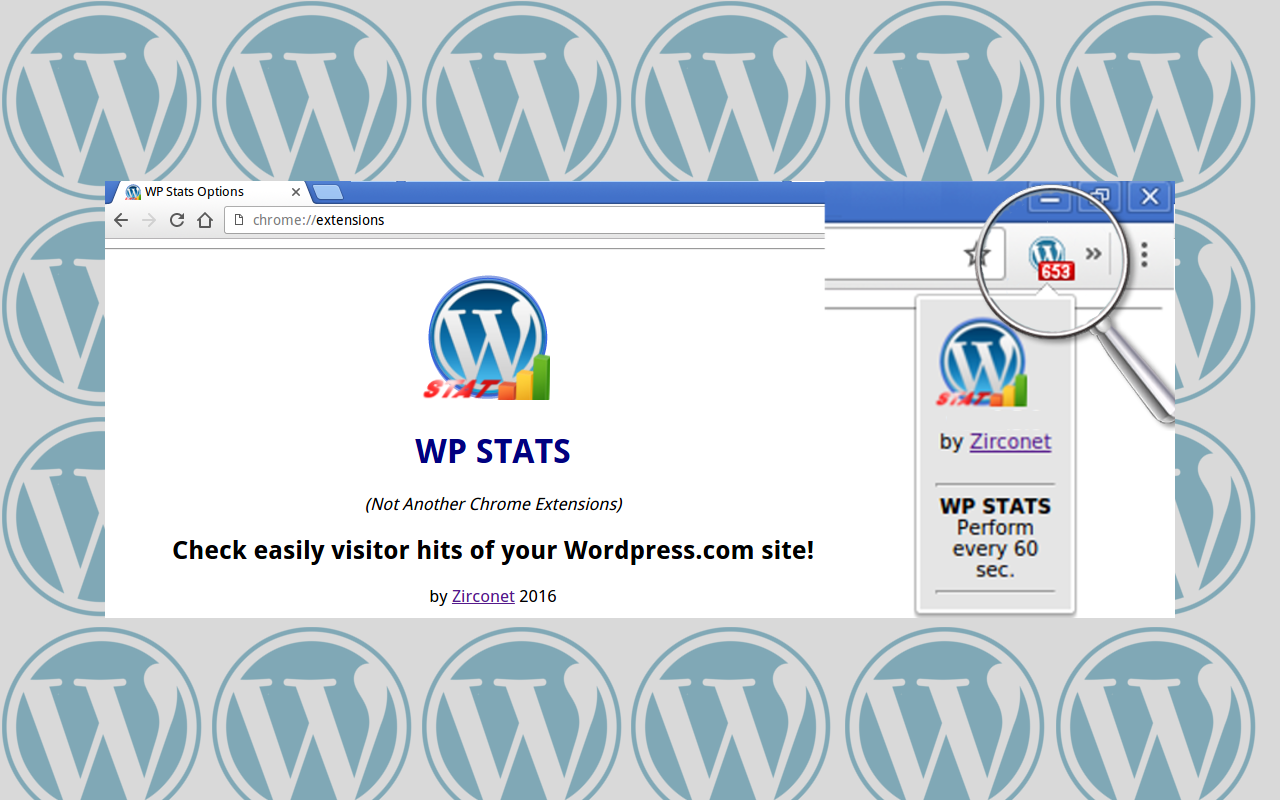
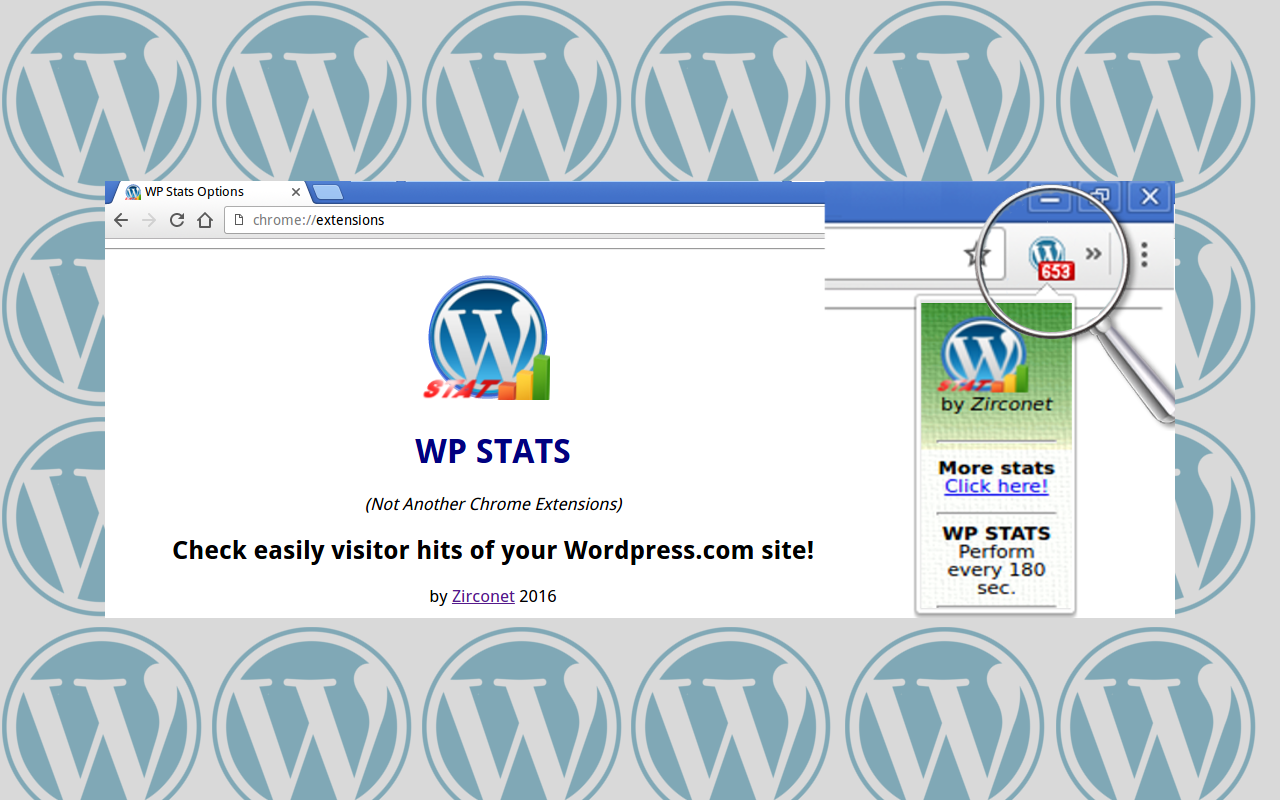
42458

Changed region(s): [[0.7188, 0.375, 0.8438, 0.7812]]

diff --git a/update.html b/update.html
@@ -8,23 +8,51 @@
 </head>
 <link rel='shortcut icon' type='image/x-icon' href='img/favicon.ico' />
 <body>
+<script src="js/update.js"></script>
 <hr />
 <h1 style="text-align: center;"><span style="color: #000080;"><a href="https://chrome.google.com/webstore/detail/wordpress-stats/jcdnefhhiabcloefaejmgdihedgdeplg" target="_blank"><img class="wp-image-21898 size-full alignnone" style="margin-right: 15px; border: 0px solid #000000;" src="img/updated.png"/></a></span></h1>
 <h1 style="text-align: center;"><span style="color: #000080;">WP STATS</span></h1>
 <div style="text-align: center;" id="version"></div>
 <p style="text-align: center;"><em>(Not Another Chrome Extensions)</em></p>
-<h2 style="text-align: center;">Check easily visitor hits of your Wordpress.com site!</h2>
+<h2 style="text-align: center;">Check easily who visit your Wordpress.com site!</h2>
 <p style="text-align: center;">by <a href="http://zirconet.wordpress.com" target="_blank">Zirconet</a> 2016</p>
 <hr />
 <hr />
-<p><strong>New version (1.5.8) changelog:</strong></p>
+<h2>Changelog:</h2>
+<p><strong>New version (1.5.9)</strong></p>
+<p>- implemented new MORE STATS POPUP showing current best posts and their visitors;</p>
+<p>- new background image.</p>
+<p style="text-align: center;"><img class="wp-image-21898 size-full alignnone" style="border: 0px solid #000000;" src="img/update/1-5-9/1.png"/><img class="wp-image-21898 size-full alignnone" style="margin-left: 100px; border: 0px solid #000000;" src="img/update/1-5-9/2.png"/></p>
+&nbsp
+<p><strong>ver. 1.5.8</strong></p>
 <p>- you can now set in Option total counter range (daily, weekly, monthly);</p>
 <p>- arranged new option.html page;</p>
 <p>- implemented detection Chrome extension first run / update;</p>
 <p>- created update.html page;</p>
 <p>- check delay now is every 180 sec.</p>
-
-<script src="js/update.js"></script>
+<p style="text-align: center;"><img class="wp-image-21898 size-full alignnone" style="border: 0px solid #000000;" src="img/update/1-5-8/1.png"/><img class="wp-image-21898 size-full alignnone" style="margin-left: 100px; border: 0px solid #000000;" src="img/update/1-5-8/2.png"/><img class="wp-image-21898 size-full alignnone" style="margin-left: 100px; border: 0px solid #000000;" src="img/update/1-5-8/3.png"/></p>
+&nbsp
+<p><strong>ver. 1.5.7</strong></p>
+<p>- now it is possible set in Option label color (red, blue, purple, green, yellow, orange).</p>
+<p style="text-align: center;"><img class="wp-image-21898 size-full alignnone" style="border: 0px solid #000000;" src="img/update/1-5-7/1.png"/><img class="wp-image-21898 size-full alignnone" style="margin-left: 100px; border: 0px solid #000000;" src="img/update/1-5-7/2.gif"/></p>
+&nbsp
+<p><strong>ver. 1.5.6</strong></p>
+<p>- changed label color in blue;</p>
+<p>- changed WP Stat url web site.</p>
+&nbsp
+<p><strong>ver. 1.5.0</strong></p>
+<p>- add popup;</p>
+<p>- autorun Option when install;</p>
+<p>- instant check saving setting;</p>
+<p>- instant check at the start.</p>
+&nbsp
+<p><strong>ver. 1.1.0</strong></p>
+<p>- add Option Popup;</p>
+<p>- add blink notification;</p>
+<p>- check delay 60s.</p>
+&nbsp
+<p><strong>ver. 1.0.0</strong></p>
+- extention complete.</p>
 </body>
 </html>
 

diff --git a/js/stats.js b/js/stats.js
@@ -1,0 +1,82 @@
+//inizializzazione variabili
+var url;
+var www1 = 'https://stats.wordpress.com/csv.php?api_key=';
+var www3 = '&blog_uri='
+var www5 = '&table=postviews&';
+var tempo = 'days=1';
+var www6 = '&format=xml';
+
+
+function sendRequest(url, callback) {
+    var xhr = new XMLHttpRequest();
+    xhr.onreadystatechange = function () {
+        if (xhr.readyState == 4) {
+		var xmlDoc = xhr.responseXML;
+ 		
+		var riga0 = document.getElementById('riga0');	
+        	riga0.textContent = '- ' + xmlDoc.getElementsByTagName("post")[0].getAttribute('title');
+		var valore0 = document.getElementById('valore0');	
+        	valore0.textContent = xmlDoc.getElementsByTagName("post")[0].childNodes[0].nodeValue + ' visitors';
+
+		var riga1 = document.getElementById('riga1');	
+        	riga1.textContent = '- ' +  xmlDoc.getElementsByTagName("post")[1].getAttribute('title')
+		var valore1 = document.getElementById('valore1');	
+        	valore1.textContent = xmlDoc.getElementsByTagName("post")[1].childNodes[0].nodeValue + ' visitors';
+
+		var riga2 = document.getElementById('riga2');	
+        	riga2.textContent = '- ' +  xmlDoc.getElementsByTagName("post")[2].getAttribute('title')
+		var valore2 = document.getElementById('valore2');	
+        	valore2.textContent = xmlDoc.getElementsByTagName("post")[2].childNodes[0].nodeValue + ' visitors';
+
+		var riga3 = document.getElementById('riga3');	
+        	riga3.textContent = '- ' +  xmlDoc.getElementsByTagName("post")[3].getAttribute('title')
+		var valore3 = document.getElementById('valore3');	
+        	valore3.textContent = xmlDoc.getElementsByTagName("post")[3].childNodes[0].nodeValue + ' visitors';
+
+		var riga4 = document.getElementById('riga4');	
+        	riga4.textContent = '- ' +  xmlDoc.getElementsByTagName("post")[4].getAttribute('title')
+		var valore4 = document.getElementById('valore4');	
+        	valore4.textContent = xmlDoc.getElementsByTagName("post")[4].childNodes[0].nodeValue + ' visitors';
+
+            	callback(x);
+        }
+    };
+    xhr.open("GET", url, true);
+    xhr.send();
+};
+
+
+function on_start() {
+  
+    chrome.storage.sync.get({
+    favoriteWww: '',
+    favoriteKey: '',
+    favoriteClr: ''
+    }, function(items) {
+    	www4 = items.favoriteWww;
+    	www2 = items.favoriteKey;
+        labelClr = items.favoriteClr;
+
+	var res = www4.replace("https://", "");
+	var rigawww = document.getElementById('rigawww');
+    	rigawww.textContent = 'checking...: ' + res; 
+
+	var link = 'https://wordpress.com/stats/insights/' + res;
+	var rigalink = document.getElementById('rigalink');
+	rigalink.textContent = 'Go to WORDPRESS.COM stats';
+	rigalink.setAttribute("href", link);
+
+	url = www1 + www2 + www3 + www4 + www5 + tempo + www6;
+	
+        sendRequest(url, function (response) {  
+	text = response;
+    	});
+
+}
+)};
+
+
+document.addEventListener('DOMContentLoaded', function () {
+  on_start();
+});
+

diff --git a/stats.html b/stats.html
@@ -1,0 +1,45 @@
+<!doctype html>
+<html>
+  <head>
+    <title>WP STATS</title>
+    <style>
+      body {
+        font-family: "Segoe UI", "Lucida Grande", Tahoma, sans-serif;
+        font-size: 60%;
+      }
+      #status {
+        /* avoid an excessively wide status text */
+        white-space: pre;
+        text-overflow: ellipsis;
+        overflow: hidden;
+        max-width: 1000px;
+      }
+    </style>
+    <script src="js/stats.js"></script>
+  </head>
+  <body background="img/bgimage.gif">
+<div style="text-align: center;"><span style="color: #000000;"><a href="http://wp.me/p7hWH-5It" target="_blank"><img class="wp-image-21898 size-full alignnone" style="margin-right: 175px; margin-left: 175px; border: 0px solid #000000;" src="img/icon128.png" alt="icon128" width="48" height="48" /></a></span> <b style="font-size: 155%">WP STATS </b><em style="font-size: 75%">by Zirconet </em></div>
+<p style="font-size: 125%"><b>Stats by post:</b> <em style="font-size: 75%">(today's top five)</em></p>
+<div style="font-size: 80%;text-align: left;font-weight: bold" id="rigawww"></div>
+<hr>
+<hr>
+<div style="font-size: 100%;text-align: left;" id="riga0"></div>
+<div style="font-size: 90%;text-align: left;font-weight: bold" id="valore0">calculing...</div>
+<hr>
+<div style="font-size: 100%;text-align: left;" id="riga1"></div>
+<div style="font-size: 90%;text-align: left;font-weight: bold" id="valore1"></div>
+<hr>
+<div style="font-size: 100%;text-align: left;" id="riga2"></div>
+<div style="font-size: 90%;text-align: left;font-weight: bold" id="valore2"></div>
+<hr>
+<div style="font-size: 100%;text-align: left;" id="riga3"></div>
+<div style="font-size: 90%;text-align: left;font-weight: bold" id="valore3"></div>
+<hr>
+<div style="font-size: 100%;text-align: left;" id="riga4"></div>
+<div style="font-size: 90%;text-align: left;font-weight: bold" id="valore4"></div>
+<hr />
+<hr />
+<a style="font-size: 80%;text-align: left" id="rigalink" target="_blank"></a> 
+  </body>
+</html>
+

diff --git a/popup.html b/popup.html
@@ -17,14 +17,21 @@
     </style>
     <script src="js/popup.js"></script>
   </head>
-  <body bgcolor="#e5e5e5">
-<div style="text-align: right;"><span style="color: #000000;"><a href="http://wp.me/p7hWH-5It" target="_blank"><img class="wp-image-21898 size-full alignnone" style="margin-right: 15px; border: 0px solid #000000;" src="https://zirconet.files.wordpress.com/2016/02/icon1282.png" alt="icon128" width="48" height="48" /></a></span></div>
+  <body background="img/bgimage.gif">
+<div style="text-align: right;"><span style="color: #000000;"><a href="http://wp.me/p7hWH-5It" target="_blank"><img class="wp-image-21898 size-full alignnone" style="margin-right: 10px; margin-left: 10px; border: 0px solid #000000;" src="img/icon128.png" alt="icon128" width="48" height="48" /></a></span></div>
+&nbsp
 <div style="text-align: center;" id="version"></div>
-<div style="text-align: center;">by <a href="http://zirconet.wordpress.com" target="_blank">Zirconet</a></div>
-<br/>
+<div style="text-align: center;"><em>by Zirconet</em></a></div>
+<br>
 <hr />  
+<p align="center">
+<b>More stats</b>
+  <a href="stats.html">Click here!</a>
+</p>
+<hr /> 
 <div style="text-align: center;"><strong>WP STATS</strong></div>
 <div style="text-align: center;"> Perform every 180 sec.</div>
+
 <hr />
   </body>
 </html>

diff --git a/js/popup.js b/js/popup.js
@@ -52,8 +52,6 @@ function restore_options() {
 }
 )};	
 
-
-
 document.addEventListener('DOMContentLoaded', function () {
   restore_options();
 });
